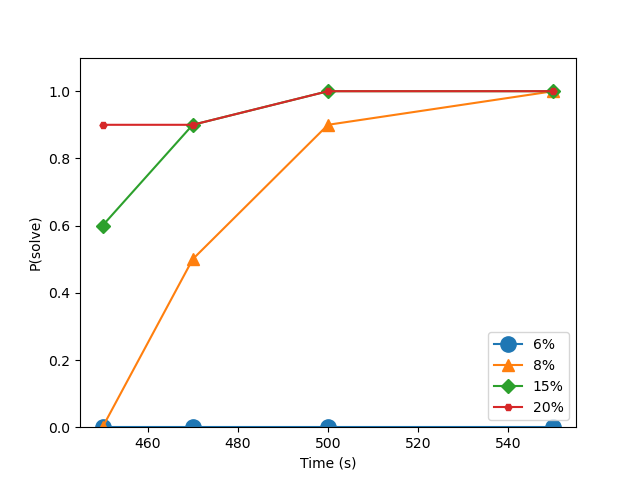
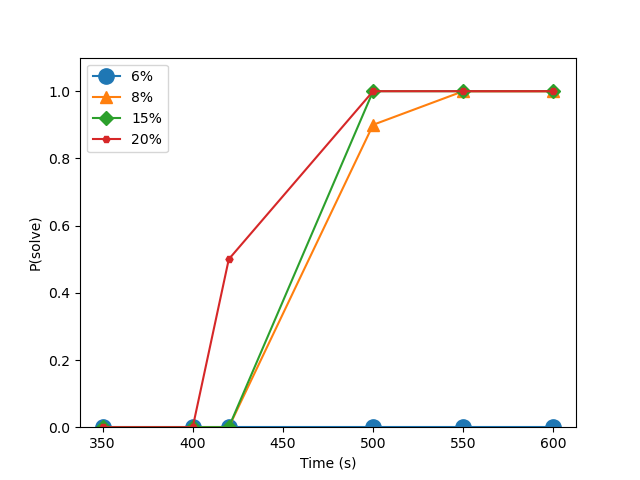
Updated plots

diff --git a/plot_curves_LS.py b/plot_curves_LS.py
@@ -46,7 +46,7 @@ def plot_qrtd(inst='power',maxtime=600,seeds=[10,20,30,40,50,60,70,80,90,100],me
     elif inst=="star2" and method=="LS2":
         xvals = [50,80,100,200]
     elif inst=="star2" and method=="LS1":
-        xvals = [450,470,500,550]
+        xvals = [350,400,420,500,550,600]
 
     for case in all_cases:
         for t in xvals:
